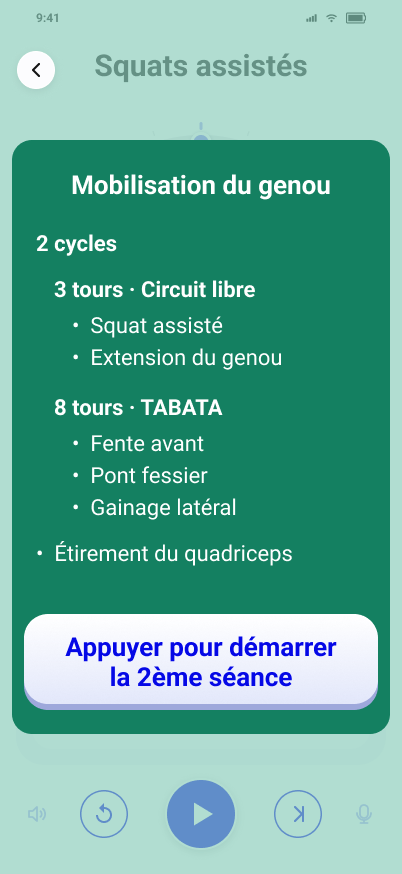
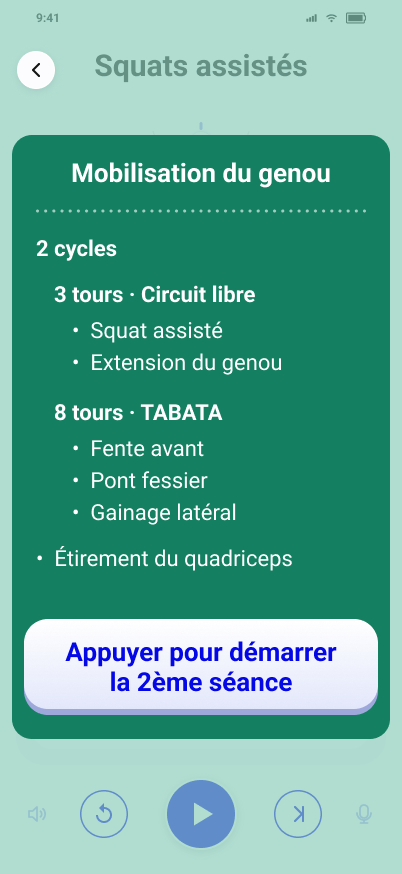
docs(D-577): séparation en pointillés sous le titre, captures et prompt alignés
Classe B (décision de Hermann, 27/11/2026). Tests non applicables.

Claude-Session: https://claude.ai/code/session_0138cCmJPZqMKdiqcqtCSEpU

diff --git a/docs/Specifications-fonctionnelles/07 – Registre des décisions de conception.md b/docs/Specifications-fonctionnelles/07 – Registre des décisions de conception.md
@@ -2439,7 +2439,7 @@ Source : [KODJO-Catalogues-cartes-modales-2026-11-06](../KODJO-Catalogues-cartes
 | D-574 | **Modale « Paramètres d'exécution » : fermeture.** La modale n'a pas de poignée (barre horizontale au-dessus du titre) : elle se ferme uniquement par la croix (sans valider, rien n'est enregistré) ou par la coche (valide). Le glissé vers le bas est désactivé : il n'est pas configuré et fermerait la modale en perdant les saisies. Les autres modales du produit gardent leur poignée dans Figma (non revue). Décision de Hermann, 26/11/2026. | Validée — 26/11/2026 | [KODJO-Formats-entrainement-2026-11-02](../KODJO-Formats-entrainement-2026-11-02.md) § 9.10 |
 | D-575 | **Pages des formats Tabata, 30/30, HIIT et Renforcement ; modale du Renforcement.** (1) Tabata, 30/30, HIIT : colonne « Objectif » renommée « Intervalle » ; la Durée totale est la dernière ligne du cadre des paramètres (après Exécution et, pour le Tabata à la suite, après « Récupération entre les mouvements ») ; la colonne Charge disparaît : la charge est écrite sous la valeur de l'intervalle, en plus petit et entre parenthèses, et rien n'est affiché quand il n'y a pas de charge. (2) Renforcement : même règle pour la charge (sous la valeur de la colonne Objectif) ; la Durée totale vient après la ligne Exécution ; la première colonne du tableau est « Séries » (nombre de séries de chaque mouvement) ; la ligne globale « Nombre de séries » est supprimée de la page. (2 bis) Death by : la charge est écrite sous la valeur de la colonne Départ, comme au point 1, et la colonne Charge disparaît. (2 ter) Dans les tableaux de ces formats, la dernière colonne est alignée à droite. (3) Modale « Paramètres d'exécution » du Renforcement : un premier cadre porte le Mode seul ; un deuxième réunit Nombre de répétitions, Nombre de séries, Pause et Charge ; un troisième De chaque côté + Cadence (D-572). (3 bis) Renforcement, nombre de séries : « À la suite », chaque mouvement a son propre nombre de séries ; « En alternance », les mouvements partagent les tours : le nombre de séries est commun et lié (le modifier pour un mouvement le modifie pour tous, dans le tableau comme dans la modale) ; le passage à « À la suite » conserve la valeur actuelle de chaque mouvement, qui peuvent ensuite différer. (4) Zone de contexte (Composition) : la durée totale est alignée à droite, en noir, au premier plan, par-dessus l'emplacement de l'illustration ; Progression : Durée totale après Exécution. Décisions de Hermann, 26/11/2026 ; la ligne Pause de la modale porte la colonne Pause de la page. | Validée — 26/11/2026 | [KODJO-Formats-entrainement-2026-11-02](../KODJO-Formats-entrainement-2026-11-02.md) § 9.10 |
 | D-576 | **Exécution d'un exercice : permutation des vues et changement de média.** (1) Un glissé horizontal (gauche ou droite) sur la zone du haut permute cadran ↔ gros chiffres ; sur la zone du bas (carte des informations ou média) il permute infos ↔ média. (2) Aucun écran d'exécution ne comporte de bouton ⇄ (retirés partout dans Figma le 26/11/2026) : la permutation des vues se fait uniquement par le glissé. [Remplace le bouton de changement de face de D-203 et la proposition du 26/11/2026 de deux boutons ⇄.] (3) Le glissé ne change plus de média : le changement de média se fait avec des flèches gauche/droite sur la zone média ; la galerie reste à plusieurs médias, ordre de la galerie, non circulaire, flèche inactive à la borne, pagination conservée. (4) Le média reste à la taille du demi-écran tant que le bouton d'extension n'est pas actionné ; les flèches de changement de média existent aussi en plein écran. Décisions de Hermann, 26/11/2026. | Validée — 26/11/2026 | [CONCEPTION-EXECUTION-MEDIA](../CONCEPTION-EXECUTION-MEDIA.md) § 5 |
-| D-577 | **Écran « Avant la séance » (affiché avant l'écran d'exécution avec le compte à rebours).** (1) Contenu : en-tête DSF avec bouton Retour et, pour titre, le nom de la séance (pas de zone de contexte, pas de trait de séparation) ; liste en lignes de texte, sans rail ni cartes (ce n'est pas une copie de la composition), des exercices, cycles et circuits qui vont être exécutés, dans l'ordre de la composition, avec le format de chaque circuit mis en évidence (chiffre en premier : « 8 tours · TABATA » (nom du format en majuscules, pour qu'on voie bien quel format est utilisé ; « Circuit libre » quand le circuit n'a pas de format), « 3 tours · Circuit libre », « 2 cycles » ; sans le détail des durées ni la nature groupées/alternées) ; bouton Commencer. (2) Lancement dans un Programme dont l'option douleur est active (D-427) : échelle de douleur 0–10 (libellé « Douleur ressentie avant la séance », sans légende : les cases 0 à 10 sont colorées du vert au rouge selon leur niveau, les couleurs suffisant à indiquer le sens de l'échelle) obligatoire, sans présélection, Le bouton de départ est inactif tant qu'aucun chiffre n'est choisi ; l'écran est toujours affiché. (3) Autre lancement : pas d'échelle de douleur ; un bouton « Ne plus afficher cet écran » est proposé, uniquement dans ce cas. [Remplace la mention « Facultatif. Sans réponse, la douleur est notée 0 » de l'ancienne version de l'écran, contraire à D-427.] (4) Parcours de plusieurs séances : l'écran existe en deux versions, une pour la première séance, une pour les suivantes (rang ≥ 2, écran de transition avant la séance suivante). La douleur est demandée une seule fois, sur la version de la première séance, et appliquée à toutes les séances du parcours ; la version des séances suivantes n'a pas d'échelle de douleur. Cette version est dessinée dans l'écran Figma « Exécution d'une séance — Initial — Enchaînement (proposition) » (`12716:25405`), qui reprend la présentation de l'écran de la première séance sans l'échelle de douleur (un seul grand cadre vert centré dans la page, contenant le titre, la liste et le bouton « Appuyer pour démarrer la 2ème séance » ; sans « du parcours »), sur le voile vert. (5) Présentation : le premier écran d'exécution de la séance est visible en fond, recouvert sur toute la hauteur du voile vert de l'écran de transition entre séances (DSF-AGENDA), identique à celui de l'écran de transition (même teinte, ≈ 35 %), posé sur un voile blanc à 50 % qui estompe l'écran d'exécution sans assombrir le vert ; le nom n'est pas affiché dans l'en-tête, il l'est comme titre de la carte ; le contenu est porté par une carte blanche, le bouton Retour DSF restant au-dessus du voile. La liste est présentée en une seule taille de texte agrandie (22 pt pour cycles, circuits, formats et exercices ; le titre « Mobilisation du genou » reste à sa taille propre, 26 pt), avec un espace supplémentaire avant chaque bloc circuit ou format (ex. Tabata), les cycles, circuits et formats se distinguant par le gras, sur une carte vert foncé (celui de l'encadré de la transition entre séances) aux textes blancs, avec une indentation par niveau (cycle, circuit, exercices du circuit) ; le titre de la carte (nom de la séance, ou du parcours : « Mobilisation du genou » dans l'écran) est affiché en plus grand, en gras, centré, avec davantage d'espace au-dessus et en dessous ; si la liste est plus longue, la carte s'étend vers le haut (le bas reste ancré au-dessus de la carte douleur et départ) ; si elle dépasse encore la hauteur disponible, seule la liste défile, le titre restant toujours visible ; la douleur et Commencer sont sur une carte distincte, en bas de l'écran, de même vert foncé, libellé (gras, 22 pt comme les cycles et circuits) et légende en blanc. Les textes de la liste, de l'échelle de douleur et du bouton de départ sont en Roboto. Chaque exercice de la liste, hors le premier mis en avant, est précédé d'un petit point de liste. (6) Bouton de départ, de hauteur doublée (96 pt) et à texte agrandi : « Appuyer pour démarrer la séance » (séance lancée seule), « Appuyer pour démarrer le parcours » (première séance d'un parcours), « Appuyer pour démarrer la Xème séance du parcours » (séances suivantes), en texte agrandi sur deux lignes, sur fond blanc avec texte bleu du DSF et un effet de relief porté par le bouton lui-même (léger dégradé et bord inférieur épais, sans ombre portée) qui le fait lire comme un bouton (le bouton bleu standard manque de contraste sur le vert). Le chiffre choisi ressort par une case nettement plus grande (≈ 40 × 58 pt), un chiffre plus gros et une ombre portée, sans liseré. Avec l'échelle de douleur, il est inactif tant qu'aucun chiffre n'est choisi ; l'écran Figma le montre activé, douleur choisie. Décisions de Hermann, 27/11/2026 ; emplacement de réactivation de l'affichage : À CLARIFIER. | Validée — 27/11/2026 | Figma « P-Avant la séance — Douleur » (`8921:35275`) et « Enchaînement (proposition) » (`12716:25405`) ; ch13 CE-EXEC-SESSION-01 ; rendu : `docs/DSF-AVANT-SEANCE-2026-11-27.md` |
+| D-577 | **Écran « Avant la séance » (affiché avant l'écran d'exécution avec le compte à rebours).** (1) Contenu : en-tête DSF avec bouton Retour et, pour titre, le nom de la séance (pas de zone de contexte, pas de trait de séparation) ; liste en lignes de texte, sans rail ni cartes (ce n'est pas une copie de la composition), des exercices, cycles et circuits qui vont être exécutés, dans l'ordre de la composition, avec le format de chaque circuit mis en évidence (chiffre en premier : « 8 tours · TABATA » (nom du format en majuscules, pour qu'on voie bien quel format est utilisé ; « Circuit libre » quand le circuit n'a pas de format), « 3 tours · Circuit libre », « 2 cycles » ; sans le détail des durées ni la nature groupées/alternées) ; bouton Commencer. (2) Lancement dans un Programme dont l'option douleur est active (D-427) : échelle de douleur 0–10 (libellé « Douleur ressentie avant la séance », sans légende : les cases 0 à 10 sont colorées du vert au rouge selon leur niveau, les couleurs suffisant à indiquer le sens de l'échelle) obligatoire, sans présélection, Le bouton de départ est inactif tant qu'aucun chiffre n'est choisi ; l'écran est toujours affiché. (3) Autre lancement : pas d'échelle de douleur ; un bouton « Ne plus afficher cet écran » est proposé, uniquement dans ce cas. [Remplace la mention « Facultatif. Sans réponse, la douleur est notée 0 » de l'ancienne version de l'écran, contraire à D-427.] (4) Parcours de plusieurs séances : l'écran existe en deux versions, une pour la première séance, une pour les suivantes (rang ≥ 2, écran de transition avant la séance suivante). La douleur est demandée une seule fois, sur la version de la première séance, et appliquée à toutes les séances du parcours ; la version des séances suivantes n'a pas d'échelle de douleur. Cette version est dessinée dans l'écran Figma « Exécution d'une séance — Initial — Enchaînement (proposition) » (`12716:25405`), qui reprend la présentation de l'écran de la première séance sans l'échelle de douleur (un seul grand cadre vert centré dans la page, contenant le titre, la liste et le bouton « Appuyer pour démarrer la 2ème séance » ; sans « du parcours »), sur le voile vert. (5) Présentation : le premier écran d'exécution de la séance est visible en fond, recouvert sur toute la hauteur du voile vert de l'écran de transition entre séances (DSF-AGENDA), identique à celui de l'écran de transition (même teinte, ≈ 35 %), posé sur un voile blanc à 50 % qui estompe l'écran d'exécution sans assombrir le vert ; le nom n'est pas affiché dans l'en-tête, il l'est comme titre de la carte ; le contenu est porté par une carte blanche, le bouton Retour DSF restant au-dessus du voile. La liste est présentée en une seule taille de texte agrandie (22 pt pour cycles, circuits, formats et exercices ; le titre « Mobilisation du genou » reste à sa taille propre, 26 pt), avec un espace supplémentaire avant chaque bloc circuit ou format (ex. Tabata), les cycles, circuits et formats se distinguant par le gras, sur une carte vert foncé (celui de l'encadré de la transition entre séances) aux textes blancs, avec une indentation par niveau (cycle, circuit, exercices du circuit) ; le titre de la carte (nom de la séance, ou du parcours : « Mobilisation du genou » dans l'écran) est affiché en plus grand, en gras, centré, avec davantage d'espace au-dessus et en dessous, à égale distance du haut du cadre et d'une ligne de pointillés blancs qui le sépare de la liste ; si la liste est plus longue, la carte s'étend vers le haut (le bas reste ancré au-dessus de la carte douleur et départ) ; si elle dépasse encore la hauteur disponible, seule la liste défile, le titre restant toujours visible ; la douleur et Commencer sont sur une carte distincte, en bas de l'écran, de même vert foncé, libellé (gras, 22 pt comme les cycles et circuits) et légende en blanc. Les textes de la liste, de l'échelle de douleur et du bouton de départ sont en Roboto. Chaque exercice de la liste, hors le premier mis en avant, est précédé d'un petit point de liste. (6) Bouton de départ, de hauteur doublée (96 pt) et à texte agrandi : « Appuyer pour démarrer la séance » (séance lancée seule), « Appuyer pour démarrer le parcours » (première séance d'un parcours), « Appuyer pour démarrer la Xème séance du parcours » (séances suivantes), en texte agrandi sur deux lignes, sur fond blanc avec texte bleu du DSF et un effet de relief porté par le bouton lui-même (léger dégradé et bord inférieur épais, sans ombre portée) qui le fait lire comme un bouton (le bouton bleu standard manque de contraste sur le vert). Le chiffre choisi ressort par une case nettement plus grande (≈ 40 × 58 pt), un chiffre plus gros et une ombre portée, sans liseré. Avec l'échelle de douleur, il est inactif tant qu'aucun chiffre n'est choisi ; l'écran Figma le montre activé, douleur choisie. Décisions de Hermann, 27/11/2026 ; emplacement de réactivation de l'affichage : À CLARIFIER. | Validée — 27/11/2026 | Figma « P-Avant la séance — Douleur » (`8921:35275`) et « Enchaînement (proposition) » (`12716:25405`) ; ch13 CE-EXEC-SESSION-01 ; rendu : `docs/DSF-AVANT-SEANCE-2026-11-27.md` |
 
 
 

diff --git a/docs/PROMPT-CLAUDE-CODE-AVANT-SEANCE-2026-11-27.md b/docs/PROMPT-CLAUDE-CODE-AVANT-SEANCE-2026-11-27.md
@@ -8,7 +8,7 @@ Principe : un seul écran, deux versions, affiché avant l'écran d'exécution ;
 
 À faire :
 1. **Fond et voiles** : le premier écran d'exécution de la séance est rendu en fond, recouvert d'un voile blanc à 50 % puis d'un voile vert `#1F9E7A` à 35 %, sur toute la hauteur ; le bouton Retour DSF reste au-dessus ; le nom de la séance n'est pas dans l'en-tête. Mesures et couleurs : DSF § 2.
-2. **Version « première séance »** (`8921:35275`) : (a) cadre vert de la liste : titre (nom de la séance, ou du parcours), puis liste en lignes de texte des cycles, circuits et exercices dans l'ordre de la composition, avec retrait par niveau, format en majuscules et chiffre en premier (« 8 tours · TABATA », « 3 tours · Circuit libre », « 2 cycles »), sans durées ni nature groupées/alternées ; (b) cadre inférieur : si l'option douleur du Programme est active, échelle 0 à 10 obligatoire, sans présélection, sans légende, cases colorées du vert au rouge, case choisie agrandie avec ombre ; le bouton est inactif tant qu'aucun chiffre n'est choisi ; sinon, pas d'échelle et le bouton est actif ; (c) bouton « Appuyer pour démarrer la séance » (séance lancée seule) ou « …le parcours » (première séance d'un parcours).
+2. **Version « première séance »** (`8921:35275`) : (a) cadre vert de la liste : titre (nom de la séance, ou du parcours), centré entre le haut du cadre et une ligne de pointillés blancs (DSF § 3), puis liste en lignes de texte des cycles, circuits et exercices dans l'ordre de la composition, avec retrait par niveau, format en majuscules et chiffre en premier (« 8 tours · TABATA », « 3 tours · Circuit libre », « 2 cycles »), sans durées ni nature groupées/alternées ; (b) cadre inférieur : si l'option douleur du Programme est active, échelle 0 à 10 obligatoire, sans présélection, sans légende, cases colorées du vert au rouge, case choisie agrandie avec ombre ; le bouton est inactif tant qu'aucun chiffre n'est choisi ; sinon, pas d'échelle et le bouton est actif ; (c) bouton « Appuyer pour démarrer la séance » (séance lancée seule) ou « …le parcours » (première séance d'un parcours).
 3. **Version « séances suivantes »** (`12716:25405`, rang ≥ 2) : un seul grand cadre vert centré verticalement (titre, liste, bouton), sans échelle de douleur, bouton « Appuyer pour démarrer la 2ème séance » (rang calculé : 2ème, 3ème…). La douleur est demandée une seule fois, sur la première séance du parcours, et appliquée à toutes les séances du parcours ; aucune nouvelle persistance au-delà de ce qui existe pour la douleur d'une séance : la valeur transite avec la chaîne (paramètres de route ou état de l'orchestrateur).
 4. **Hauteur** : si la liste est plus longue, le cadre s'étend vers le haut (bas ancré au-dessus du cadre de départ) ; au-delà de la hauteur disponible, seule la liste défile, le titre restant toujours visible.
 5. **Polices et relief** : Roboto partout dans l'écran ; le bouton a son relief porté par lui-même (dégradé léger, bord inférieur épais, pas d'ombre portée) ; la case choisie n'a pas de liseré.

diff --git a/.github/orchestration/reports/2026-11-18_PLANIF-GRILLE-DOC.md b/.github/orchestration/reports/2026-11-18_PLANIF-GRILLE-DOC.md
@@ -337,3 +337,4 @@
 - Complément (suite 19 sexdecies, D-577 point 4) : écran « Exécution d'une séance — Initial — Enchaînement (proposition) » (12716:25405) remplacé par la présentation du nouvel écran, sans échelle de douleur (carte de liste ancrée au-dessus d'une carte de départ, bouton « 2ème séance du parcours »). DSF-AGENDA-PLANNING annoté. Classe B ; tests non applicables.
 - Complément (suite 19 septdecies, D-577 point 4) : écran d'enchaînement en un seul grand cadre vert centré (liste + bouton) ; libellé « Appuyer pour démarrer la 2ème séance » (sans « du parcours »). Classe B ; tests non applicables.
 - Complément (suite 20, livraison) : DSF `docs/DSF-AVANT-SEANCE-2026-11-27.md` créé ; ch13 (lignes 8921:35275 et 12716:25405), ch06 (capture 12716:25405 ajoutée), ch07 D-577 alignés ; prompt `docs/PROMPT-CLAUDE-CODE-AVANT-SEANCE-2026-11-27.md` rédigé. Figma : écrans 8921:35275 et 12716:25405 à jour, polices Roboto. Classe B ; tests non applicables ; vérification sur iPhone à faire.
+- Complément (suite 20 bis, D-577 point 5) : titre à égale distance du haut du cadre et d'une ligne de pointillés blancs (écrans 8921:35275 et 12716:25405) ; D-577, DSF Avant la séance, prompt Claude Code et captures ch06 alignés. Classe B ; tests non applicables.

diff --git a/docs/DSF-AVANT-SEANCE-2026-11-27.md b/docs/DSF-AVANT-SEANCE-2026-11-27.md
@@ -24,7 +24,8 @@ Fond `#148061`, rayon 20, largeur 378 à x = 12, textes blancs. Toutes les polic
 
 | Élément | Style |
 |---|---|
-| Titre (nom de la séance, ou du parcours) | Roboto gras 26, centré, espace 14 au-dessus et au-dessous |
+| Titre (nom de la séance, ou du parcours) | Roboto gras 26, centré, à égale distance (23 pt) du haut du cadre et de la ligne de pointillés |
+| Séparation sous le titre | Ligne de points ronds, largeur de la liste (330 à x = 36), trait 3, blanc à 60 %, écart 8 ; 10 pt d'espace sous la ligne avant le premier élément |
 | Cycle (« 2 cycles ») | gras 22, retrait 0 |
 | Circuit / format (« 3 tours · Circuit libre », « 8 tours · TABATA ») | gras 22, retrait 18, espace avant 14 (circuit) / 18 (format) ; nom du format en majuscules ; « Circuit libre » si pas de format ; ni durée ni nature groupées/alternées |
 | Exercice | normal 22, retrait 36, puce « • » ; écart de 4 entre exercices consécutifs |
